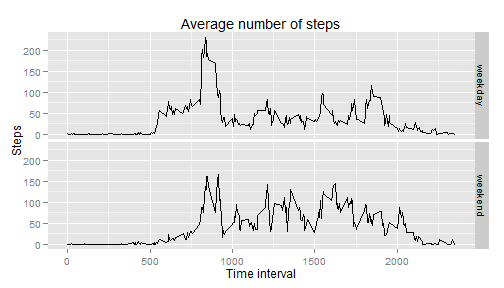
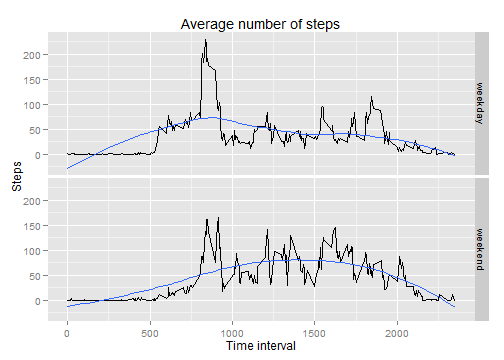
Finish Assignment

Changed region(s): [[0.0, 0.0312, 0.9821, 0.9688]]

diff --git a/PA1_template.html b/PA1_template.html
@@ -213,19 +213,23 @@ str(activity)
 
 <p><strong>Important</strong>: <em>In this step we&#39;re ingoring missing values.</em></p>
 
-<p>First we group data on date and look at distribution of total number of steps taken each day:</p>
+<p>First, we group data on date and look at distribution of total number of steps taken each day:</p>
 
 <pre><code class="r">library(plyr)
 sum.day.steps &lt;- ddply(activity, .(date), summarize, sum.steps=sum(steps))
 
 library(ggplot2)
-ggplot(sum.day.steps, aes(x=sum.steps)) + geom_histogram(binwidth=2500) +
-    labs(x=&quot;Steps per day&quot;, y = &quot;Count&quot;, title = &quot;Total number of steps taken each day&quot;)
+ggplot(sum.day.steps, aes(x=sum.steps)) + 
+    geom_histogram(binwidth=2500) +
+    labs(x=&quot;Steps per day&quot;, 
+         y = &quot;Count&quot;, 
+         title = &quot;Total number of steps taken each day&quot;)
 </code></pre>
 
[1 lines of base64/hex data omitted]
 
-<p>And calculate mean and median number of steps taken per day:</p>
+<p>And calculate mean and median number of steps taken per day (missing values are
+ignored):</p>
 
 <pre><code class="r">mean(sum.day.steps$sum.steps, na.rm = TRUE)
 </code></pre>
@@ -243,9 +247,13 @@ ggplot(sum.day.steps, aes(x=sum.steps)) + geom_histogram(binwidth=2500) +
 
 <p>To extract daily activity pattern, we can average number of steps in specific time interval across all days:</p>
 
-<pre><code class="r">avg.day.steps &lt;- ddply(activity, .(interval), summarize, avg.steps = mean(steps, na.rm=TRUE))
-ggplot(avg.day.steps, aes(x=interval, y=avg.steps)) + geom_line(size=0.5) +
-    labs(x=&quot;Time interval&quot;, y=&quot;Steps&quot;, title=&quot;Average number of steps (across all days)&quot;)
+<pre><code class="r">avg.day.steps &lt;- ddply(activity, .(interval), 
+                       summarize, avg.steps = mean(steps, na.rm=TRUE))
+ggplot(avg.day.steps, aes(x=interval, y=avg.steps)) + 
+    geom_line(size=0.5) +
+    labs(x=&quot;Time interval&quot;, 
+         y=&quot;Steps&quot;, 
+         title=&quot;Average number of steps (across all days)&quot;)
 </code></pre>
 
[1 lines of base64/hex data omitted]
@@ -258,31 +266,49 @@ ggplot(avg.day.steps, aes(x=interval, y=avg.steps)) + geom_line(size=0.5) +
 <pre><code>## [1] 835
 </code></pre>
 
-<p>Which related to 5-minute time interval started at <strong>13:55</strong>.</p>
+<p>Which related to 5-minute time interval started at:</p>
+
+<pre><code class="r">paste(floor(max.step.interval/100), (max.step.interval %% 100), sep=&quot;:&quot;)
+</code></pre>
+
+<pre><code>## [1] &quot;8:35&quot;
+</code></pre>
 
 <h2>Imputing missing values</h2>
 
-<p>Missing values apears in &#39;steps&#39; column. Total number of missing values:</p>
+<p>Identify which columns contain missing values:</p>
 
-<pre><code class="r">sum(is.na(activity$steps))
+<pre><code class="r">colSums(is.na(activity))
 </code></pre>
 
-<pre><code>## [1] 2304
+<pre><code>##    steps     date interval 
+##     2304        0        0
 </code></pre>
 
-<p>For imputing these missing values, all NA&#39;s are replacing with mean number of steps in that time interval (rounded to the nearest integer). Mean numbers of steps across all days were calculated in previous section.</p>
+<p>Missing values apears in &#39;steps&#39; column. Total number is 2304.</p>
 
-<p>For this purpose we merge <em>acitivity</em> and <em>avg.day.steps</em>  datasets on &#39;interval&#39; column and then substitute NA&#39;s with averaged and rounded numbers of steps in specific interval (now these values in the same row). At last we remove intermediary column, sort data by date and re-arrange columns to original order.</p>
+<p>For imputing these missing values, all NAs are replacing with mean number of steps in that time interval (rounded to the nearest integer). Mean numbers of steps across all days were calculated in previous section.</p>
+
+<p>For this purpose we merge <em>acitivity</em> and <em>avg.day.steps</em>  datasets on &#39;interval&#39; column and then substitute NAs with averaged and rounded numbers of steps in specific interval (now these values at the same row). At last we remove intermediary column, sort data by date and re-arrange columns to original order.</p>
 
 <pre><code class="r">activity.tidy &lt;- merge(activity, avg.day.steps, by=&quot;interval&quot;, all.x=TRUE)
+
 activity.tidy[is.na(activity.tidy$steps), 2] &lt;- 
     round(activity.tidy[is.na(activity.tidy$steps), 4])
 
 activity.tidy &lt;- activity.tidy[with(activity.tidy, order(date, interval)), ]
+
 activity.tidy &lt;- subset(activity.tidy, select=c(steps, date, interval))
 </code></pre>
 
 <p>Ensure that new dataset contains no missing values:</p>
+
+<pre><code class="r">colSums(is.na(activity))
+</code></pre>
+
+<pre><code>##    steps     date interval 
+##     2304        0        0
+</code></pre>
 
 <pre><code class="r">summary(activity.tidy)
 </code></pre>
@@ -300,8 +326,11 @@ activity.tidy &lt;- subset(activity.tidy, select=c(steps, date, interval))
 
 <pre><code class="r">tidy.sum.day.steps &lt;- ddply(activity.tidy, .(date), summarize, sum.steps=sum(steps))
 
-ggplot(tidy.sum.day.steps, aes(x=sum.steps)) + geom_histogram(binwidth=2500) +
-    labs(x=&quot;Steps per day&quot;, y = &quot;Count&quot;, title = &quot;Total number of steps taken each day&quot;)
+ggplot(tidy.sum.day.steps, aes(x=sum.steps)) +
+    geom_histogram(binwidth=2500) +
+    labs(x=&quot;Steps per day&quot;, 
+         y = &quot;Count&quot;, 
+         title = &quot;Total number of steps taken each day&quot;)
 </code></pre>
 
[1 lines of base64/hex data omitted]
@@ -320,7 +349,7 @@ ggplot(tidy.sum.day.steps, aes(x=sum.steps)) + geom_histogram(binwidth=2500) +
 <pre><code>## [1] 10762
 </code></pre>
 
-<p>These values almost the same in case we ignore missing values at all. So for this particular dataset and this type of analysis it&#39;s not ver important to handle missing values.</p>
+<p>As expected these values almost the same as in the case ignoring missing values at all. This is because we replace NAs with average values in that time interval. So for this particular dataset and this type of analysis it&#39;s not very important to handle missing values.</p>
 
 <h2>Are there differences in activity patterns between weekdays and weekends?</h2>
 
@@ -339,16 +368,27 @@ activity.tidy$day.type &lt;- as.factor(sapply(activity.tidy$date, map.weekdays))
 
 <p>And make a panel plot which allows to compare daily activity patterns across different types of days.</p>
 
-<pre><code class="r">tidy.avg.day.steps &lt;- ddply(activity.tidy, .(interval, day.type), summarize, avg.steps = mean(steps))
+<pre><code class="r">tidy.avg.day.steps &lt;- ddply(activity.tidy, .(interval, day.type), 
+                            summarize, avg.steps = mean(steps))
 
-ggplot(tidy.avg.day.steps, aes(x=interval, y=avg.steps)) + geom_line(size=0.5) +
+ggplot(tidy.avg.day.steps, aes(x=interval, y=avg.steps)) + 
+    geom_line(size=0.5) +
+    geom_smooth(method=&quot;loess&quot;, se=FALSE) +
     facet_grid(day.type ~ . ) +
-    labs(x=&quot;Time interval&quot;, y=&quot;Steps&quot;, title=&quot;Average number of steps&quot;)
+    labs(x=&quot;Time interval&quot;, 
+         y=&quot;Steps&quot;, 
+         title=&quot;Average number of steps&quot;)
 </code></pre>
 
[2 lines of base64/hex data omitted]
 
-<p>So we can see that during weekend human activity is less &#39;stable&#39; and starts later.</p>
+<p>So we can see that during weekend human activity is (in comparison with weekday):</p>
+
+<ul>
+<li>more jagged</li>
+<li>higher afternoon and lower in a morning</li>
+<li>begins later</li>
+</ul>
 
 </body>
 

diff --git a/PA1_template.md b/PA1_template.md
@@ -35,20 +35,24 @@ head(activity)
 ## What is mean total number of steps taken per day?
 **Important**: *In this step we're ingoring missing values.*
 
-First we group data on date and look at distribution of total number of steps taken each day:
+First, we group data on date and look at distribution of total number of steps taken each day:
 
 ```r
 library(plyr)
 sum.day.steps <- ddply(activity, .(date), summarize, sum.steps=sum(steps))
 
 library(ggplot2)
-ggplot(sum.day.steps, aes(x=sum.steps)) + geom_histogram(binwidth=2500) +
-    labs(x="Steps per day", y = "Count", title = "Total number of steps taken each day")
+ggplot(sum.day.steps, aes(x=sum.steps)) + 
+    geom_histogram(binwidth=2500) +
+    labs(x="Steps per day", 
+         y = "Count", 
+         title = "Total number of steps taken each day")
 ```
 
 ![plot of chunk histogram](figure/histogram.png) 
 
-And calculate mean and median number of steps taken per day:
+And calculate mean and median number of steps taken per day (missing values are
+ignored):
 
 ```r
 mean(sum.day.steps$sum.steps, na.rm = TRUE)
@@ -70,9 +74,13 @@ median(sum.day.steps$sum.steps, na.rm = TRUE)
 To extract daily activity pattern, we can average number of steps in specific time interval across all days:
 
 ```r
-avg.day.steps <- ddply(activity, .(interval), summarize, avg.steps = mean(steps, na.rm=TRUE))
-ggplot(avg.day.steps, aes(x=interval, y=avg.steps)) + geom_line(size=0.5) +
-    labs(x="Time interval", y="Steps", title="Average number of steps (across all days)")
+avg.day.steps <- ddply(activity, .(interval), 
+                       summarize, avg.steps = mean(steps, na.rm=TRUE))
+ggplot(avg.day.steps, aes(x=interval, y=avg.steps)) + 
+    geom_line(size=0.5) +
+    labs(x="Time interval", 
+         y="Steps", 
+         title="Average number of steps (across all days)")
 ```
 
 ![plot of chunk activity_pattern](figure/activity_pattern.png) 
@@ -88,33 +96,55 @@ avg.day.steps[which.max(avg.day.steps$avg.steps), 1]
 ```
 
 
-Which related to 5-minute time interval started at **13:55**.
-
-## Imputing missing values
-Missing values apears in 'steps' column. Total number of missing values:
+Which related to 5-minute time interval started at:
 
 ```r
-sum(is.na(activity$steps))
+paste(floor(max.step.interval/100), (max.step.interval %% 100), sep=":")
 ```
 
 ```
-## [1] 2304
+## [1] "8:35"
 ```
 
-For imputing these missing values, all NA's are replacing with mean number of steps in that time interval (rounded to the nearest integer). Mean numbers of steps across all days were calculated in previous section.
+## Imputing missing values
+Identify which columns contain missing values:
 
-For this purpose we merge *acitivity* and *avg.day.steps*  datasets on 'interval' column and then substitute NA's with averaged and rounded numbers of steps in specific interval (now these values in the same row). At last we remove intermediary column, sort data by date and re-arrange columns to original order.
+```r
+colSums(is.na(activity))
+```
+
+```
+##    steps     date interval 
+##     2304        0        0
+```
+
+Missing values apears in 'steps' column. Total number is 2304.
+
+For imputing these missing values, all NAs are replacing with mean number of steps in that time interval (rounded to the nearest integer). Mean numbers of steps across all days were calculated in previous section.
+
+For this purpose we merge *acitivity* and *avg.day.steps*  datasets on 'interval' column and then substitute NAs with averaged and rounded numbers of steps in specific interval (now these values at the same row). At last we remove intermediary column, sort data by date and re-arrange columns to original order.
 
 ```r
 activity.tidy <- merge(activity, avg.day.steps, by="interval", all.x=TRUE)
+
 activity.tidy[is.na(activity.tidy$steps), 2] <- 
     round(activity.tidy[is.na(activity.tidy$steps), 4])
 
 activity.tidy <- activity.tidy[with(activity.tidy, order(date, interval)), ]
+
 activity.tidy <- subset(activity.tidy, select=c(steps, date, interval))
 ```
 
 Ensure that new dataset contains no missing values:
+
+```r
+colSums(is.na(activity))
+```
+
+```
+##    steps     date interval 
+##     2304        0        0
+```
 
 ```r
 summary(activity.tidy)
@@ -135,8 +165,11 @@ After imputing missing values we again look at distribution of total number of s
 ```r
 tidy.sum.day.steps <- ddply(activity.tidy, .(date), summarize, sum.steps=sum(steps))
 
-ggplot(tidy.sum.day.steps, aes(x=sum.steps)) + geom_histogram(binwidth=2500) +
-    labs(x="Steps per day", y = "Count", title = "Total number of steps taken each day")
+ggplot(tidy.sum.day.steps, aes(x=sum.steps)) +
+    geom_histogram(binwidth=2500) +
+    labs(x="Steps per day", 
+         y = "Count", 
+         title = "Total number of steps taken each day")
 ```
 
 ![plot of chunk histogram_no_na](figure/histogram_no_na.png) 
@@ -159,7 +192,7 @@ median(tidy.sum.day.steps$sum.steps)
 ## [1] 10762
 ```
 
-These values almost the same in case we ignore missing values at all. So for this particular dataset and this type of analysis it's not ver important to handle missing values.
+As expected these values almost the same as in the case ignoring missing values at all. This is because we replace NAs with average values in that time interval. So for this particular dataset and this type of analysis it's not very important to handle missing values.
 
 ## Are there differences in activity patterns between weekdays and weekends?
 
@@ -180,13 +213,21 @@ activity.tidy$day.type <- as.factor(sapply(activity.tidy$date, map.weekdays))
 And make a panel plot which allows to compare daily activity patterns across different types of days.
 
 ```r
-tidy.avg.day.steps <- ddply(activity.tidy, .(interval, day.type), summarize, avg.steps = mean(steps))
+tidy.avg.day.steps <- ddply(activity.tidy, .(interval, day.type), 
+                            summarize, avg.steps = mean(steps))
 
-ggplot(tidy.avg.day.steps, aes(x=interval, y=avg.steps)) + geom_line(size=0.5) +
+ggplot(tidy.avg.day.steps, aes(x=interval, y=avg.steps)) + 
+    geom_line(size=0.5) +
+    geom_smooth(method="loess", se=FALSE) +
     facet_grid(day.type ~ . ) +
-    labs(x="Time interval", y="Steps", title="Average number of steps")
+    labs(x="Time interval", 
+         y="Steps", 
+         title="Average number of steps")
 ```
 
 ![plot of chunk compare_plot](figure/compare_plot.png) 
 
-So we can see that during weekend human activity is less 'stable' and starts later.
+So we can see that during weekend human activity is (in comparison with weekday):
+- more jagged
+- higher afternoon and lower in a morning
+- begins later
